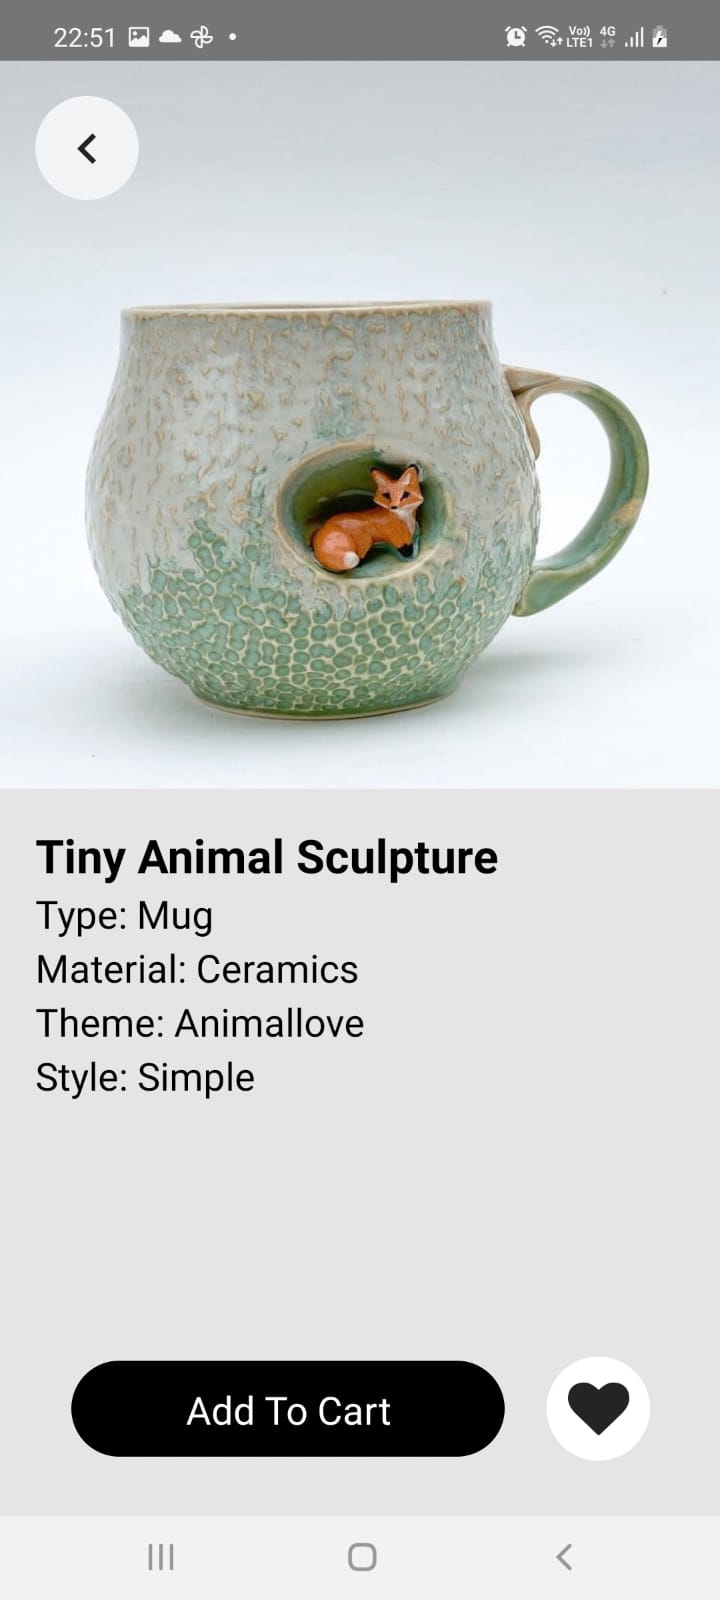
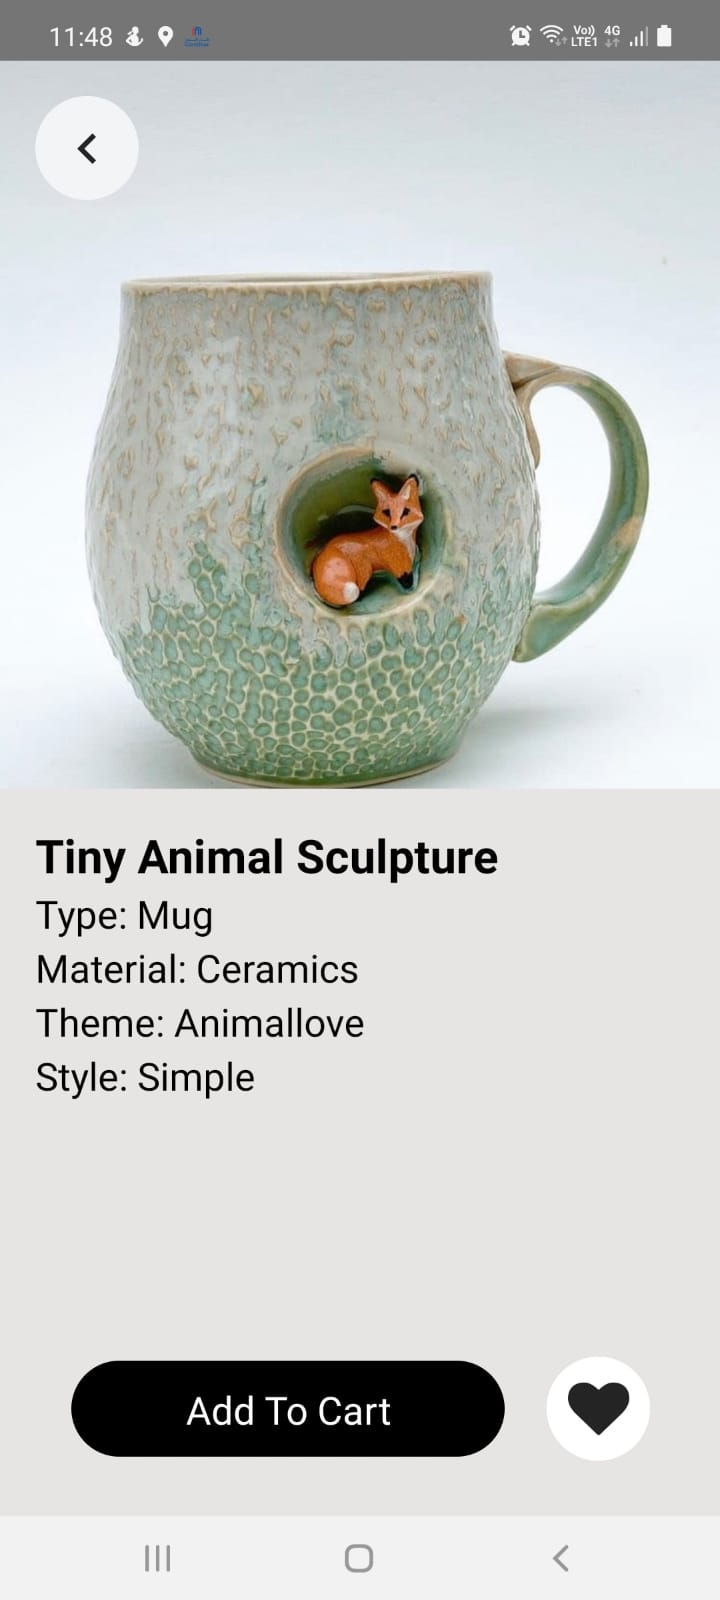
update

diff --git a/src/presentation/components/Mugs.js b/src/presentation/components/Mugs.js
@@ -43,39 +43,41 @@ const Mugs = () => {
   const navigation = useNavigation()
 
   return (
-    <SafeAreaView style={tw`flex-grow`}>
-      <FlatList
-        data={items}
-        keyExtractor={(item) => item.id}
-        renderItem={({ item }) => (
-          <TouchableOpacity
-            onPress={() => {
-              dispatch(setMug(item))
-              navigation.navigate('DetailsScreen')
-            }}
-            style={tw`flex-row bg-white m-2 rounded-lg`}>
-            <View style={tw`flex-row`}>
-              <Image style={{ width: 110, height: 120, resizeMode: 'contain' }} source={{ uri: item.image }} />
-              <View style={tw`p-2`}>
-                <Text style={tw`mt-2 text-lg font-semibold`}>{item.name}</Text>
-                <Text style={tw`mt-1 text-base`}>Price: {item.price}</Text>
-                <View style={tw`flex-row items-center mt-1`}>
-                  <Text style={tw`text-base`}>Color:</Text>
-                  <FlatList
-                    data={item.colors}
-                    // keyExtractor={(item) => item.id}
-                    horizontal
-                    renderItem={(color) => (
-                      <View style={tw`h-4 w-4 ml-2`}>
-                        <Text style={{ backgroundColor: color.item.code }}></Text>
-                      </View>
-                    )} />
+    <SafeAreaView>
+      <View style={tw`flex`}>
+        <FlatList
+          data={items}
+          keyExtractor={(item) => item.id}
+          renderItem={({ item }) => (
+            <TouchableOpacity
+              onPress={() => {
+                dispatch(setMug(item))
+                navigation.navigate('DetailsScreen')
+              }}
+              style={tw`flex-row bg-white m-2 rounded-lg`}>
+              <View style={tw`flex-row`}>
+                <Image style={{ width: 110, height: 120, resizeMode: 'cover' }} source={{ uri: item.image }} />
+                <View style={tw`p-2`}>
+                  <Text style={tw`mt-2 text-lg font-semibold`}>{item.name}</Text>
+                  <Text style={tw`mt-1 text-base`}>Price: {item.price}</Text>
+                  <View style={tw`flex-row items-center mt-1`}>
+                    <Text style={tw`text-base`}>Color:</Text>
+                    <FlatList
+                      data={item.colors}
+                      // keyExtractor={(item) => item.id}
+                      horizontal
+                      renderItem={(color) => (
+                        <View style={tw`h-4 w-4 ml-2`}>
+                          <Text style={{ backgroundColor: color.item.code }}></Text>
+                        </View>
+                      )} />
+                  </View>
                 </View>
               </View>
-            </View>
-          </TouchableOpacity>
-        )}
-      />
+            </TouchableOpacity>
+          )}
+        />
+      </View>
     </SafeAreaView>
   )
 }

diff --git a/src/presentation/views/HomeScreen.js b/src/presentation/views/HomeScreen.js
@@ -21,10 +21,12 @@ const HomeScreen = () => {
             placeholder="Search..." />
           <Icon style={tw`items-center`} name="search" type='ionicon' color='gray' />
         </View>
-        <Text style={tw`py-5 text-2xl`}>Ceramic mugs</Text>
-        <Filters />
-        <Text style={tw`py-2`}>Selected: {filterSelected?.label}</Text>
-        <Mugs />
+        <View>
+          <Text style={tw`py-5 text-2xl`}>Ceramic mugs</Text>
+          <Filters />
+          <Text style={tw`py-2`}>Selected: {filterSelected?.label}</Text>
+          <Mugs />
+        </View>
       </View>
     </SafeAreaView>
   )

diff --git a/src/presentation/views/DetailsScreen.js b/src/presentation/views/DetailsScreen.js
@@ -24,7 +24,7 @@ const DetailsScreen = () => {
         <Icon name="chevron-left" size={35} />
       </TouchableOpacity>
       <View style={tw`h-1/2`}>
-        <Image style={tw`flex-grow`, { resizeMode: 'stretch', width: '100%', height: '100%' }} source={{ uri: mug?.image }} />
+        <Image style={tw`flex-grow`, { resizeMode: 'cover', width: '100%', height: '100%' }} source={{ uri: mug?.image }} />
       </View>
       <View style={tw`h-1/2 p-5`}>
         <Text style={tw`text-2xl font-bold`}>{mug?.name}</Text>
